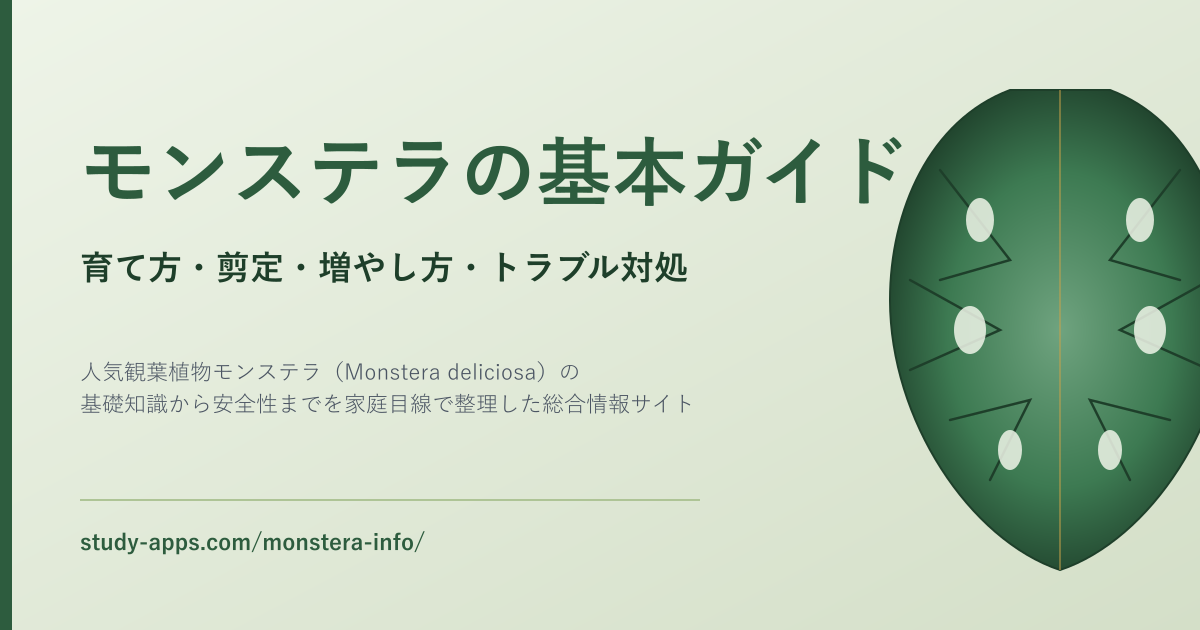
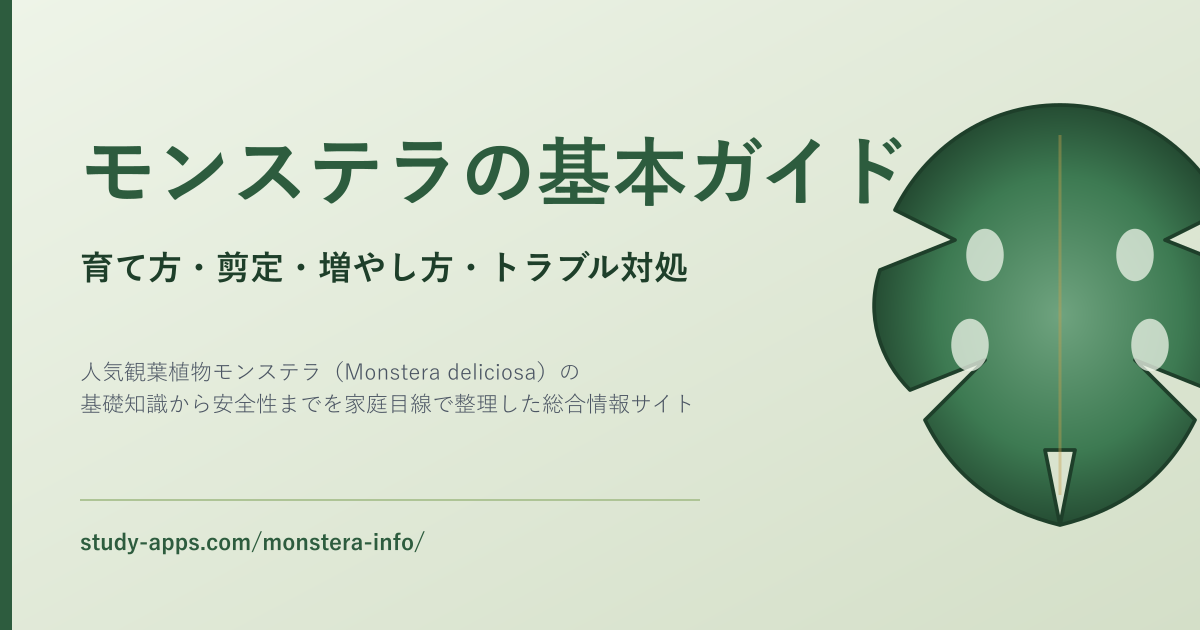
fix: ファビコン/ロゴをモンステラ葉の切れ込み形状に刷新
旧デザイン（緑系の丸い葉）はモンステラの特徴である縁の深い切れ込みが
表現されておらず、小サイズではビーツのアイコンと区別がつきにくかった。
切れ込みのあるシルエットに変更し、ファビコン・ヘッダーロゴ・OGP画像で統一。

diff --git a/scripts/generate-ogp.ts b/scripts/generate-ogp.ts
@@ -19,21 +19,13 @@ const svg = `<svg xmlns="http://www.w3.org/2000/svg" width="1200" height="630" v
   <rect width="1200" height="630" fill="url(#bg)"/>
   <rect x="0" y="0" width="12" height="630" fill="#2D5C3E"/>
 
-  <g transform="translate(860, 60)">
-    <path d="M150 30 C70 60 30 150 30 240 C30 360 110 480 200 510 C290 480 370 360 370 240 C370 150 330 60 250 30 Z" fill="url(#leafGrad)" stroke="#1E3F2A" stroke-width="2"/>
-    <path d="M200 30 L200 510" stroke="#C9A14A" stroke-width="2" opacity="0.5"/>
-    <path d="M80 110 L150 200 L80 220" fill="none" stroke="#1E3F2A" stroke-width="2.5" stroke-linecap="round"/>
-    <path d="M320 110 L250 200 L320 220" fill="none" stroke="#1E3F2A" stroke-width="2.5" stroke-linecap="round"/>
-    <path d="M50 220 L140 270 L50 310" fill="none" stroke="#1E3F2A" stroke-width="2.5" stroke-linecap="round"/>
-    <path d="M350 220 L260 270 L350 310" fill="none" stroke="#1E3F2A" stroke-width="2.5" stroke-linecap="round"/>
-    <path d="M90 360 L170 340 L130 420" fill="none" stroke="#1E3F2A" stroke-width="2.5" stroke-linecap="round"/>
-    <path d="M310 360 L230 340 L270 420" fill="none" stroke="#1E3F2A" stroke-width="2.5" stroke-linecap="round"/>
-    <ellipse cx="120" cy="160" rx="14" ry="22" fill="#eef4e8" opacity="0.85"/>
-    <ellipse cx="280" cy="160" rx="14" ry="22" fill="#eef4e8" opacity="0.85"/>
-    <ellipse cx="110" cy="270" rx="16" ry="24" fill="#eef4e8" opacity="0.85"/>
-    <ellipse cx="290" cy="270" rx="16" ry="24" fill="#eef4e8" opacity="0.85"/>
-    <ellipse cx="150" cy="390" rx="12" ry="20" fill="#eef4e8" opacity="0.85"/>
-    <ellipse cx="250" cy="390" rx="12" ry="20" fill="#eef4e8" opacity="0.85"/>
+  <g transform="translate(820, 75) scale(7.5)">
+    <path d="M 32 4 C 22 4, 14 10, 10 18 L 18 22 L 8 26 C 6 32, 8 38, 12 42 L 22 38 L 14 46 C 18 54, 24 58, 32 60 L 30 50 L 34 50 L 32 60 C 40 58, 46 54, 50 46 L 42 38 L 52 42 C 56 38, 58 32, 56 26 L 46 22 L 54 18 C 50 10, 42 4, 32 4 Z" fill="url(#leafGrad)" stroke="#1E3F2A" stroke-width="0.5" stroke-linejoin="round"/>
+    <path d="M32 8 L32 56" stroke="#C9A14A" stroke-width="0.4" opacity="0.4"/>
+    <ellipse cx="22" cy="24" rx="2.5" ry="3.5" fill="#eef4e8" opacity="0.75"/>
+    <ellipse cx="42" cy="24" rx="2.5" ry="3.5" fill="#eef4e8" opacity="0.75"/>
+    <ellipse cx="20" cy="36" rx="2.5" ry="3.5" fill="#eef4e8" opacity="0.75"/>
+    <ellipse cx="44" cy="36" rx="2.5" ry="3.5" fill="#eef4e8" opacity="0.75"/>
   </g>
 
   <text x="80" y="200" font-family="'Hiragino Kaku Gothic ProN','Hiragino Sans','Yu Gothic',Meiryo,sans-serif" font-size="76" font-weight="700" fill="#2D5C3E">モンステラの基本ガイド</text>

diff --git a/src/App.tsx b/src/App.tsx
@@ -216,20 +216,18 @@ function Header() {
         >
           <svg className="brand-logo" viewBox="0 0 64 64" xmlns="http://www.w3.org/2000/svg">
             <defs>
-              <radialGradient id="ml" cx="50%" cy="50%" r="55%">
+              <radialGradient id="ml" cx="50%" cy="55%" r="55%">
                 <stop offset="0%" stopColor="#6FA37F"/>
                 <stop offset="60%" stopColor="#3D7A52"/>
                 <stop offset="100%" stopColor="#1E3F2A"/>
               </radialGradient>
             </defs>
-            <path d="M32 4 C18 8 8 22 8 36 C8 50 20 60 32 60 C44 60 56 50 56 36 C56 22 46 8 32 4 Z" fill="url(#ml)" stroke="#1E3F2A" strokeWidth="0.5"/>
-            <path d="M32 8 L32 58" stroke="#C9A14A" strokeWidth="0.8" opacity="0.5"/>
-            <ellipse cx="20" cy="24" rx="3" ry="5" fill="#f8faf5" opacity="0.85"/>
-            <ellipse cx="44" cy="24" rx="3" ry="5" fill="#f8faf5" opacity="0.85"/>
-            <ellipse cx="16" cy="38" rx="3.5" ry="5.5" fill="#f8faf5" opacity="0.85"/>
-            <ellipse cx="48" cy="38" rx="3.5" ry="5.5" fill="#f8faf5" opacity="0.85"/>
-            <ellipse cx="24" cy="48" rx="2.5" ry="4" fill="#f8faf5" opacity="0.85"/>
-            <ellipse cx="40" cy="48" rx="2.5" ry="4" fill="#f8faf5" opacity="0.85"/>
+            <path d="M 32 4 C 22 4, 14 10, 10 18 L 18 22 L 8 26 C 6 32, 8 38, 12 42 L 22 38 L 14 46 C 18 54, 24 58, 32 60 L 30 50 L 34 50 L 32 60 C 40 58, 46 54, 50 46 L 42 38 L 52 42 C 56 38, 58 32, 56 26 L 46 22 L 54 18 C 50 10, 42 4, 32 4 Z" fill="url(#ml)" stroke="#1E3F2A" strokeWidth="0.8" strokeLinejoin="round"/>
+            <path d="M32 8 L32 56" stroke="#C9A14A" strokeWidth="0.6" opacity="0.4"/>
+            <ellipse cx="22" cy="24" rx="2.5" ry="3.5" fill="#f8faf5" opacity="0.7"/>
+            <ellipse cx="42" cy="24" rx="2.5" ry="3.5" fill="#f8faf5" opacity="0.7"/>
+            <ellipse cx="20" cy="36" rx="2.5" ry="3.5" fill="#f8faf5" opacity="0.7"/>
+            <ellipse cx="44" cy="36" rx="2.5" ry="3.5" fill="#f8faf5" opacity="0.7"/>
           </svg>
           <span>モンステラの基本ガイド</span>
         </a>
